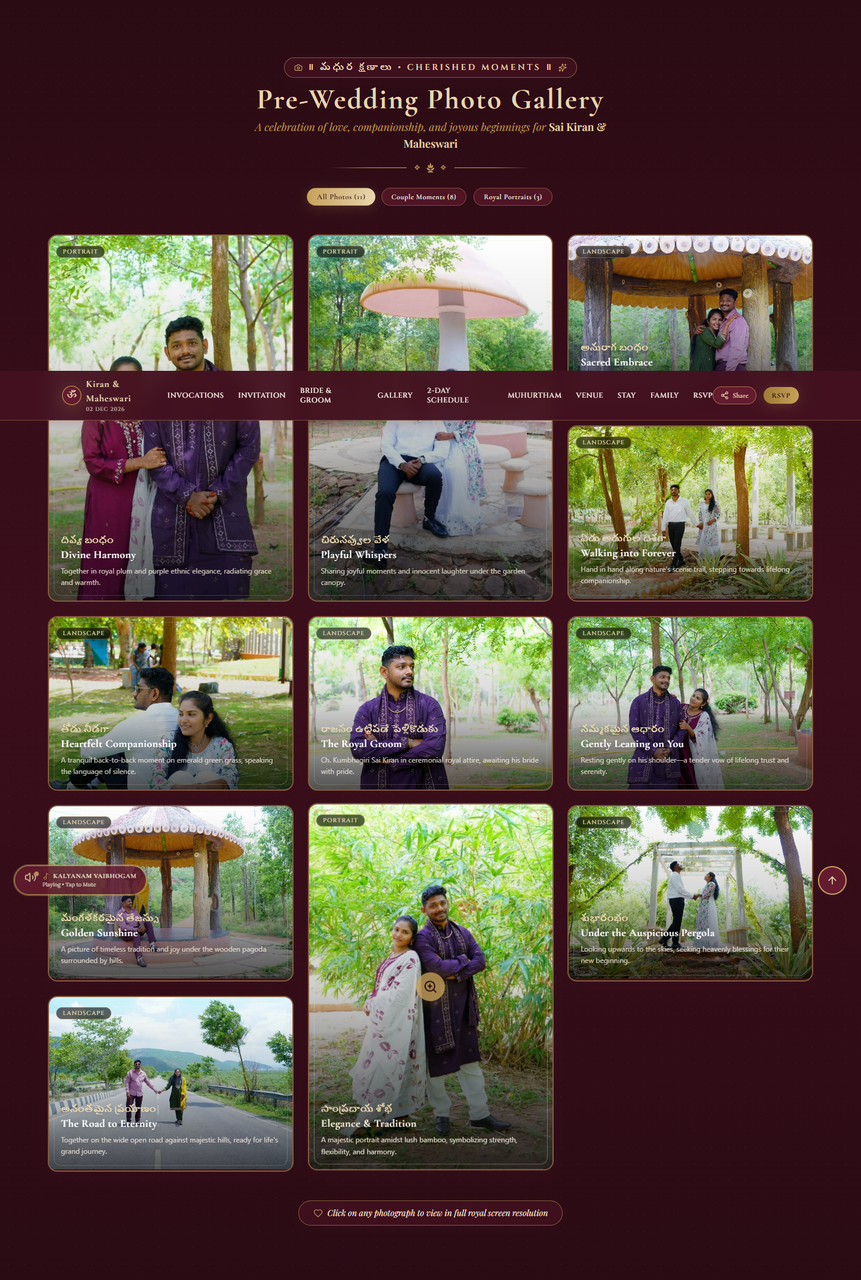
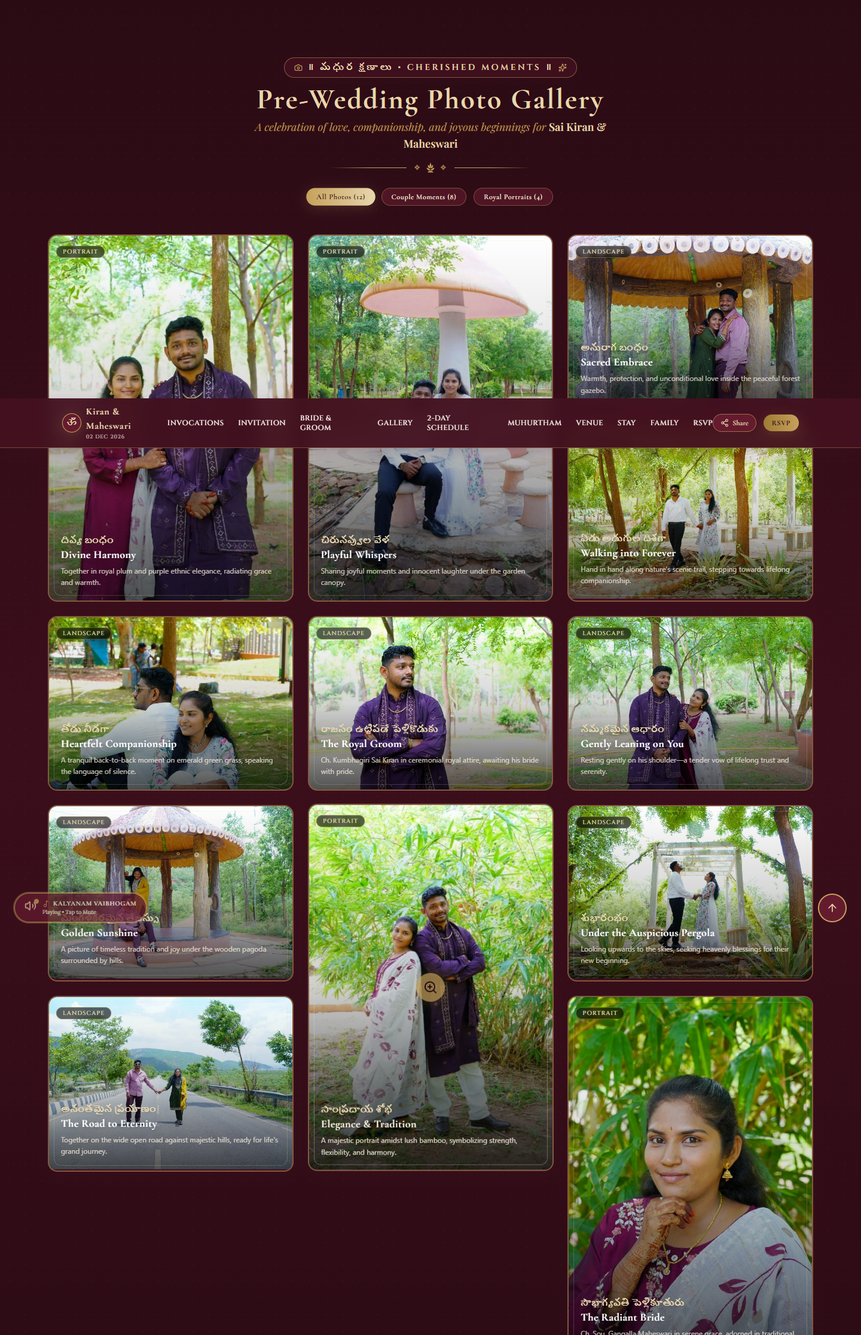
feat: replace cropped bride image with authentic high-res solo portrait and add to gallery as photo-12

diff --git a/src/components/PhotoGallery.tsx b/src/components/PhotoGallery.tsx
@@ -21,7 +21,7 @@ export interface GalleryPhoto {
   titleTe: string;
   subtitle: string;
   aspect: "portrait" | "landscape";
-  category: "together" | "groom" | "scenic";
+  category: "together" | "groom" | "bride" | "scenic";
 }
 
 export const GALLERY_PHOTOS: GalleryPhoto[] = [
@@ -134,6 +134,16 @@ export const GALLERY_PHOTOS: GalleryPhoto[] = [
     subtitle: "Together on the wide open road against majestic hills, ready for life's grand journey.",
     aspect: "landscape",
     category: "scenic",
+  },
+  {
+    id: "photo-12",
+    src: "/images/gallery/photo-12.webp",
+    srcJpg: "/images/gallery/photo-12.jpg",
+    titleEn: "The Radiant Bride",
+    titleTe: "సౌభాగ్యవతి పెళ్లికూతురు",
+    subtitle: "Ch. Sou. Gangalla Maheswari in serene grace, adorned in traditional ethnic beauty.",
+    aspect: "portrait",
+    category: "bride",
   },
 ];
 
@@ -272,7 +282,7 @@ export function PhotoGallery() {
                   : "bg-[#641B2E]/60 text-cream-warm border border-gold-antique/40 hover:bg-[#641B2E] hover:text-gold-champagne"
               }`}
             >
-              Royal Portraits (3)
+              Royal Portraits ({GALLERY_PHOTOS.filter(p => p.aspect === "portrait").length})
             </button>
           </div>
         </div>

diff --git a/src/components/CoupleProfiles.tsx b/src/components/CoupleProfiles.tsx
@@ -150,7 +150,7 @@ export function CoupleProfiles() {
                     <img
                       src={bride.image}
                       alt={bride.name}
-                      className="w-full h-full object-cover rounded-t-full group-hover:scale-105 transition-transform duration-500 filter contrast-105"
+                      className="w-full h-full object-cover object-[center_20%] rounded-t-full group-hover:scale-105 transition-transform duration-500 filter contrast-105"
                     />
                     <div className="absolute bottom-2 left-0 right-0 z-20 text-center">
                       <span className="px-3 py-0.5 rounded-full bg-[#42101F]/90 border border-gold-antique/70 font-ceremonial text-[10px] text-gold-champagne tracking-wider uppercase">

diff --git a/test-render.js b/test-render.js
@@ -170,7 +170,9 @@ async function testWebsite() {
     "Divine Harmony",
     "దివ్య బంధం",
     "Playful Whispers",
-    "The Royal Groom"
+    "The Royal Groom",
+    "The Radiant Bride",
+    "సౌభాగ్యవతి పెళ్లికూతురు"
   ];
 
   const subbaIdx = pageContent.indexOf("Sri Devara Subbarayudu");
